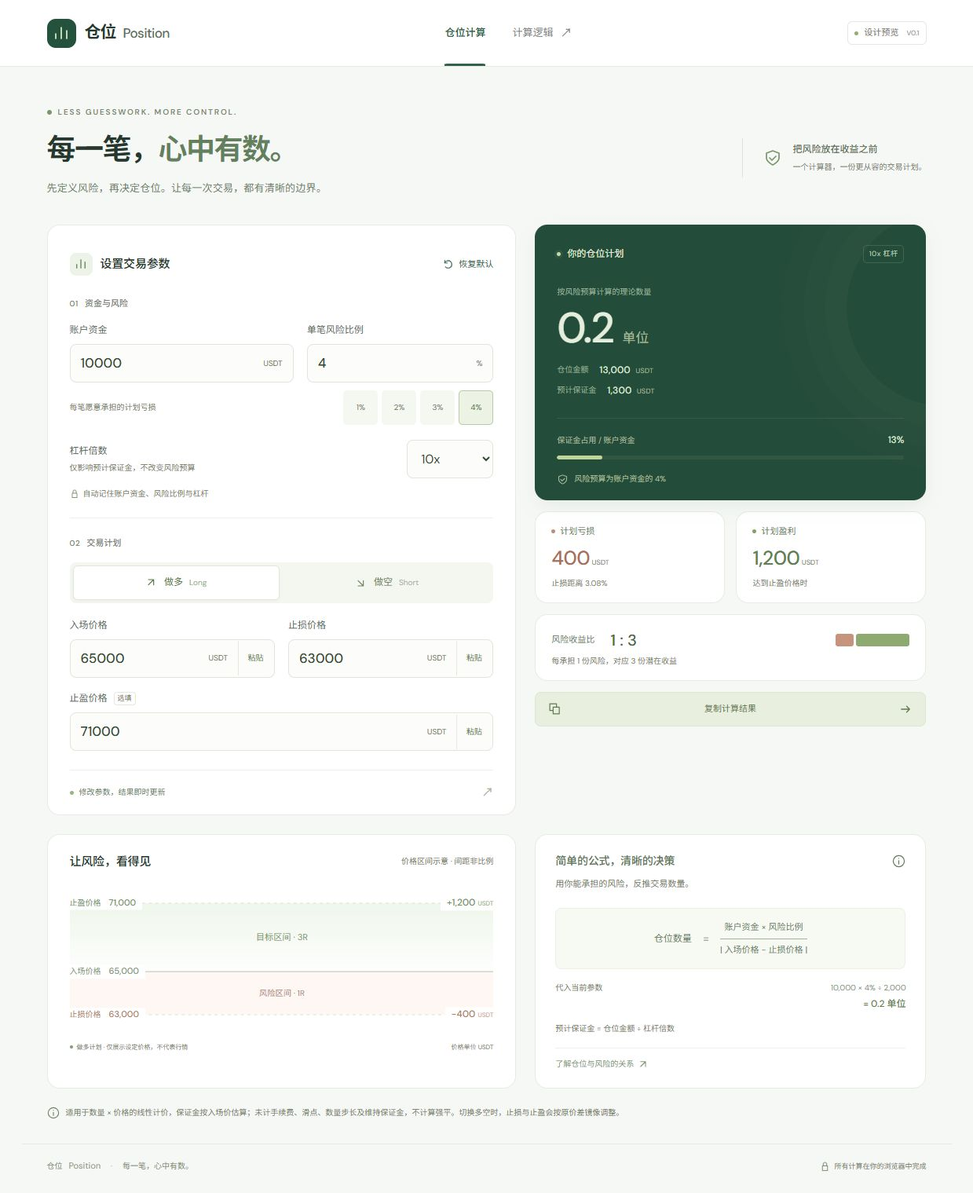
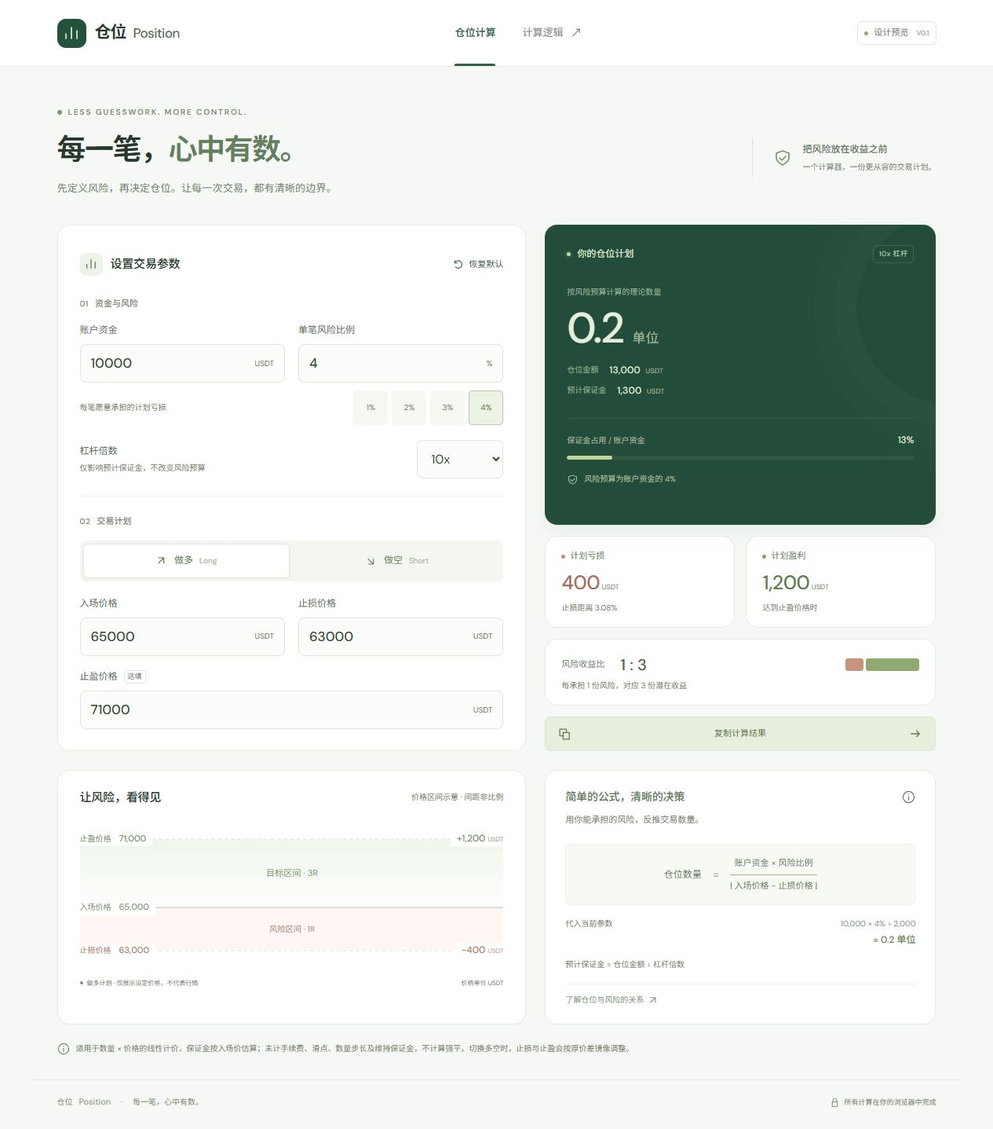
Simplify calculator inputs and align panels

diff --git a/src/styles.css b/src/styles.css
@@ -4,16 +4,16 @@
 *{box-sizing:border-box}html{scroll-behavior:smooth;scroll-padding-top:28px}body{margin:0}button,input,select,a{-webkit-tap-highlight-color:transparent}button,input,select{font:inherit}button,a{touch-action:manipulation}button{cursor:pointer}button{color:inherit}a{color:inherit;text-decoration:none}button:focus-visible,a:focus-visible{outline:3px solid #78a78a;outline-offset:4px}button:disabled{cursor:not-allowed;opacity:.5}svg{flex-shrink:0}button{transition:background .16s,border-color .16s,transform .16s}button:active{transform:translateY(1px)}
 .site-header{background:#fff;border-bottom:1px solid var(--border)}.header-inner{max-width:1184px;margin:auto;height:84px;display:flex;align-items:center;justify-content:space-between;padding:0 32px}.brand{white-space:nowrap;display:flex;align-items:center;gap:11px;font-size:21px;font-weight:700;letter-spacing:-1px}.brand-symbol{width:37px;height:37px;display:grid;place-items:center;background:#24523d;color:#deedc8;border-radius:11px}.brand-english{font-family:'DM Sans',sans-serif;font-weight:500;font-size:17px;letter-spacing:-.6px;margin-left:9px;color:#5c6e60}nav{display:flex;gap:34px;align-items:center;height:100%;font-size:13px;color:#7c877e}nav a{white-space:nowrap;display:flex;align-items:center;gap:9px;height:100%;position:relative}nav a.active{font-weight:550;color:var(--green)}nav a.active:after{content:'';height:3px;background:var(--green);position:absolute;bottom:0;left:0;right:0;border-radius:3px 3px 0 0}nav a:hover{color:var(--green)}nav a span{font-size:15px}.preview-badge{font-size:11px;display:flex;align-items:center;gap:7px;color:#75806f;border:1px solid #e3e9de;border-radius:6px;padding:5px 8px}.preview-badge>span{width:5px;height:5px;background:#93ac72;border-radius:50%}.preview-badge b{font-size:9px;font-weight:500;color:#a0a898;margin-left:3px}
 main{max-width:1184px;margin:auto;padding:0 32px}.hero{display:flex;justify-content:space-between;align-items:center;padding:50px 0 36px}.eyebrow{font-size:10px;letter-spacing:1.9px;color:#798a71;font-weight:600;display:flex;gap:8px;align-items:center}.eyebrow>span{width:6px;height:6px;border-radius:50%;background:#79996c}h1{font-size:37px;letter-spacing:-1.5px;margin:12px 0 11px;line-height:1.5;font-weight:650}h1 span{color:#63805d}.hero p{font-size:13px;color:#6f7d6b;margin:0;letter-spacing:.2px}.hero-note{display:flex;gap:14px;align-items:center;margin:17px 0 0 20px;padding:5px 0 5px 26px;border-left:1px solid #dce4d7;color:#78956b}.hero-note strong{font-size:12px;color:#5c7156;font-weight:500;display:block}.hero-note span{font-size:10px;display:block;color:#76836e;margin-top:5px;white-space:nowrap}
-.workspace{display:grid;grid-template-columns:1.2fr 1fr;gap:24px;align-items:start}.card{background:#fff;border:1px solid var(--border);border-radius:16px}.parameters{padding:27px 28px 0}.section-heading{display:flex;justify-content:space-between;align-items:center;gap:12px}.section-heading h2{font-size:15px;font-weight:550;letter-spacing:-.2px;margin:0}.heading-with-icon{display:flex;align-items:center;gap:10px}.section-icon{display:grid;place-items:center;width:29px;height:29px;border-radius:8px;background:#edf3e9;color:#5b8050}.reset-button{display:flex;align-items:center;gap:6px;background:none;border:0;color:#6d7c68;font-size:11px;padding:10px 0 10px 12px;min-height:44px}.reset-button:hover{color:var(--green)}.form-section{margin-top:20px}.step-label{display:flex;align-items:center;gap:8px;color:#768472;font-size:11px;font-weight:500;margin-bottom:15px}.step-label>span:first-child{font-size:10px;color:#76866b;font-weight:500;letter-spacing:.6px}.fields-grid{display:grid;grid-template-columns:1fr 1fr;gap:17px}.account-fields{grid-template-columns:1.2fr 1fr}.field label{display:flex;align-items:center;gap:8px;font-size:12px;color:#596b5b;margin-bottom:8px}.input-wrap{display:flex;align-items:center;border:1px solid #dfe6da;background:#fcfdfa;border-radius:8px;height:49px;transition:border-color .15s,box-shadow .15s;overflow:hidden}.input-wrap:focus-within{border-color:#7e9e6f;box-shadow:0 0 0 3px #e8efdf}.input-wrap input{font-family:'DM Sans','Noto Sans SC',sans-serif;min-width:0;width:100%;border:0;outline:0;background:transparent;padding:12px 13px;font-size:17px;font-weight:500;color:#344832;font-variant-numeric:tabular-nums;appearance:textfield;-moz-appearance:textfield}.input-wrap input::-webkit-inner-spin-button,.input-wrap input::-webkit-outer-spin-button{-webkit-appearance:none;margin:0}.input-wrap input::placeholder{font-size:13px;color:#b7bfb0;font-weight:400}.input-suffix{font-size:10px;color:#708062;padding-right:13px;white-space:nowrap}.input-wrap.invalid{border-color:#bf8577}.field-error{display:block;font-size:10px;color:#a45b4d;margin-top:5px;line-height:1.5}.optional{font-size:9px;border:1px solid #e4e9de;color:#728064;border-radius:4px;padding:0 4px}.risk-row{display:flex;flex-wrap:wrap;justify-content:space-between;align-items:center;gap:8px;margin-top:10px}.risk-row>span{font-size:10px;color:#738164}.risk-presets{margin-left:auto;display:flex;gap:5px}.risk-presets button{border:1px solid transparent;border-radius:5px;background:#f5f7f1;color:#71805f;min-height:44px;min-width:44px;padding:3px 6px;font-size:10px}.risk-presets button.selected{border-color:#b9cba8;background:#ecf3e4;color:#507344}.risk-presets button:hover{background:#e8f0e0}.trade-section{margin-top:22px;border-top:1px solid #edf0e9;padding-top:23px}.direction-control{display:flex;padding:4px;background:#f4f6f0;border-radius:8px;gap:5px;margin-bottom:19px}.direction-control button{display:flex;gap:8px;align-items:center;justify-content:center;flex:1;min-height:44px;border:1px solid transparent;border-radius:6px;background:transparent;font-size:12px;color:#6f7e62}.direction-control button span{font-size:10px;opacity:.65}.direction-control button.selected{background:#fff;border-color:#e1e7d8;box-shadow:0 2px 4px #2c491408}.direction-control button.long{color:#547643}.direction-control button.short{color:#ac6c58}.price-fields{margin-bottom:17px}.form-footnote{border-top:1px solid #edf0e9;display:flex;align-items:center;gap:7px;color:#6b7d5e;font-size:10px;margin-top:24px;padding:16px 0}.live-dot{height:5px;width:5px;border-radius:50%;background:#99b580;display:inline-block;flex-shrink:0}.footnote-arrow{margin-left:auto;color:#a3b095;font-size:15px}
-.results-column{display:flex;flex-direction:column;gap:14px}.result-card{position:relative;isolation:isolate;overflow:hidden;padding:26px 28px 19px;border-radius:16px;color:#e5eedc;background:#244c3b;box-shadow:0 9px 24px #254b3810}.result-card:after{content:'';position:absolute;width:250px;height:250px;border:1px solid #acc1940d;border-radius:50%;right:-150px;top:-20px;box-shadow:0 0 0 26px #acc19404,0 0 0 53px #acc19404,0 0 0 80px #acc19403;z-index:-1}.result-topline{display:flex;justify-content:space-between;align-items:center;font-size:12px}.result-topline>span:first-child{display:flex;gap:8px;align-items:center}.result-topline .live-dot{background:#c2dba6;box-shadow:0 0 0 3px #c2dba612}.result-leverage{font-size:9px;color:#b8cbb2;border:1px solid #79947055;border-radius:5px;padding:3px 7px;letter-spacing:.5px}.quantity-label{font-size:10px;color:#9db09b;margin:29px 0 2px}.quantity{font-family:'DM Sans',sans-serif;font-size:54px;font-weight:500;letter-spacing:-2px;line-height:1.35;font-variant-numeric:tabular-nums;overflow-wrap:anywhere}.quantity>span{font-size:17px;font-weight:400;letter-spacing:0;color:#a6bb9b;margin-left:11px}.notional{display:flex;align-items:center;gap:14px;font-size:10px;color:#99ad94;margin-top:7px}.notional strong{color:#dce8d3;font-size:12px;font-weight:500;letter-spacing:.2px}.notional strong span{font-size:9px;color:#a5b79d;font-weight:400;margin-left:3px}.result-divider{height:1px;background:#96ac8929;margin-top:25px;margin-bottom:18px}.capital-label{display:flex;justify-content:space-between;align-items:center;font-size:10px;color:#a6b79f}.capital-label strong{color:#dae8ce;font-size:12px;font-weight:500}.capital-bar{height:5px;background:#718c602e;border-radius:4px;overflow:hidden;margin-top:10px}.capital-bar span{display:block;height:100%;border-radius:4px;background:#bfd59a;transition:width .3s}.result-bottom{display:flex;gap:7px;align-items:center;font-size:10px;color:#a8bd9c;margin-top:17px}.metrics-grid{display:grid;grid-template-columns:1fr 1fr;gap:14px}.metric{padding:16px 20px}.metric-label{font-size:11px;color:#6a7c5c;display:flex;align-items:center;gap:6px}.metric-dot{width:5px;height:5px;border-radius:50%;display:inline-block}.metric-dot.loss{background:#bd8d79}.metric-dot.gain{background:#80a264}.metric>strong{font-family:'DM Sans',sans-serif;display:block;font-size:25px;font-weight:500;margin-top:5px;letter-spacing:-.4px;font-variant-numeric:tabular-nums;overflow-wrap:anywhere}.metric:first-child>strong{color:#aa6e5b}.metric:last-child>strong{color:#60804f}.metric strong small{font-size:9px;font-weight:400;color:#738264;letter-spacing:0}.metric-detail{font-size:10px;color:#748368;margin-top:4px;display:block}.ratio-card{padding:16px 20px;display:grid;grid-template-columns:1fr auto;align-items:center;gap:3px 14px}.ratio-card>div:first-child{display:flex;align-items:center;gap:20px}.ratio-card strong{font-family:'DM Sans',sans-serif;font-size:20px;letter-spacing:.1px;font-weight:500;color:#4d6744}.ratio-visual{width:94px;display:flex;gap:3px;align-items:center}.ratio-visual>*{display:block;min-width:2px;flex-basis:0;width:0;height:16px;border-radius:3px;background:#8eaa70}.ratio-visual>span{background:#c6937d;margin-right:0}.ratio-description{grid-column:1/-1;font-size:10px;color:#748266}.copy-button{display:flex;align-items:center;justify-content:center;gap:10px;min-height:44px;background:#e9efdf;border:1px solid #dce6d0;border-radius:8px;color:#5f7951;font-size:11px;padding:8px 16px}.copy-button>svg:last-child{margin-left:auto}.copy-button>svg:first-child{margin-right:auto}.copy-button:hover{background:#e1ead5}.capital-warning{display:flex;align-items:flex-start;gap:8px;background:#f9efde;color:#927342;border:1px solid #e8d6b9;border-radius:8px;padding:12px;font-size:11px}
+.workspace{display:grid;grid-template-columns:1.2fr 1fr;gap:24px;align-items:stretch}.card{background:#fff;border:1px solid var(--border);border-radius:16px}.parameters{padding:27px 28px}.section-heading{display:flex;justify-content:space-between;align-items:center;gap:12px}.section-heading h2{font-size:15px;font-weight:550;letter-spacing:-.2px;margin:0}.heading-with-icon{display:flex;align-items:center;gap:10px}.section-icon{display:grid;place-items:center;width:29px;height:29px;border-radius:8px;background:#edf3e9;color:#5b8050}.reset-button{display:flex;align-items:center;gap:6px;background:none;border:0;color:#6d7c68;font-size:11px;padding:10px 0 10px 12px;min-height:44px}.reset-button:hover{color:var(--green)}.form-section{margin-top:20px}.step-label{display:flex;align-items:center;gap:8px;color:#768472;font-size:11px;font-weight:500;margin-bottom:15px}.step-label>span:first-child{font-size:10px;color:#76866b;font-weight:500;letter-spacing:.6px}.fields-grid{display:grid;grid-template-columns:1fr 1fr;gap:17px}.field label{display:flex;align-items:center;gap:8px;font-size:12px;color:#596b5b;margin-bottom:8px}.input-wrap{display:flex;align-items:center;border:1px solid #dfe6da;background:#fcfdfa;border-radius:8px;height:49px;transition:border-color .15s,box-shadow .15s;overflow:hidden}.input-wrap:focus-within{border-color:#7e9e6f;box-shadow:0 0 0 3px #e8efdf}.input-wrap input{font-family:'DM Sans','Noto Sans SC',sans-serif;min-width:0;width:100%;border:0;outline:0;background:transparent;padding:12px 13px;font-size:17px;font-weight:500;color:#344832;font-variant-numeric:tabular-nums;appearance:textfield;-moz-appearance:textfield}.input-wrap input::-webkit-inner-spin-button,.input-wrap input::-webkit-outer-spin-button{-webkit-appearance:none;margin:0}.input-wrap input::placeholder{font-size:13px;color:#b7bfb0;font-weight:400}.input-suffix{font-size:10px;color:#708062;padding-right:13px;white-space:nowrap}.input-wrap.invalid{border-color:#bf8577}.field-error{display:block;font-size:10px;color:#a45b4d;margin-top:5px;line-height:1.5}.optional{font-size:9px;border:1px solid #e4e9de;color:#728064;border-radius:4px;padding:0 4px}.risk-row{display:flex;flex-wrap:wrap;justify-content:space-between;align-items:center;gap:8px;margin-top:10px}.risk-row>span{font-size:10px;color:#738164}.risk-presets{margin-left:auto;display:flex;gap:5px}.risk-presets button{border:1px solid transparent;border-radius:5px;background:#f5f7f1;color:#71805f;min-height:44px;min-width:44px;padding:3px 6px;font-size:10px}.risk-presets button.selected{border-color:#b9cba8;background:#ecf3e4;color:#507344}.risk-presets button:hover{background:#e8f0e0}.trade-section{margin-top:22px;border-top:1px solid #edf0e9;padding-top:23px}.direction-control{display:flex;padding:4px;background:#f4f6f0;border-radius:8px;gap:5px;margin-bottom:19px}.direction-control button{display:flex;gap:8px;align-items:center;justify-content:center;flex:1;min-height:44px;border:1px solid transparent;border-radius:6px;background:transparent;font-size:12px;color:#6f7e62}.direction-control button span{font-size:10px;opacity:.65}.direction-control button.selected{background:#fff;border-color:#e1e7d8;box-shadow:0 2px 4px #2c491408}.direction-control button.long{color:#547643}.direction-control button.short{color:#ac6c58}.price-fields{margin-bottom:17px}.live-dot{height:5px;width:5px;border-radius:50%;background:#99b580;display:inline-block;flex-shrink:0}
+.results-column{display:flex;flex-direction:column;gap:14px}.result-card{flex-grow:1;position:relative;isolation:isolate;overflow:hidden;padding:26px 28px 19px;border-radius:16px;color:#e5eedc;background:#244c3b;box-shadow:0 9px 24px #254b3810}.result-card:after{content:'';position:absolute;width:250px;height:250px;border:1px solid #acc1940d;border-radius:50%;right:-150px;top:-20px;box-shadow:0 0 0 26px #acc19404,0 0 0 53px #acc19404,0 0 0 80px #acc19403;z-index:-1}.result-topline{display:flex;justify-content:space-between;align-items:center;font-size:12px}.result-topline>span:first-child{display:flex;gap:8px;align-items:center}.result-topline .live-dot{background:#c2dba6;box-shadow:0 0 0 3px #c2dba612}.result-leverage{font-size:9px;color:#b8cbb2;border:1px solid #79947055;border-radius:5px;padding:3px 7px;letter-spacing:.5px}.quantity-label{font-size:10px;color:#9db09b;margin:29px 0 2px}.quantity{font-family:'DM Sans',sans-serif;font-size:54px;font-weight:500;letter-spacing:-2px;line-height:1.35;font-variant-numeric:tabular-nums;overflow-wrap:anywhere}.quantity>span{font-size:17px;font-weight:400;letter-spacing:0;color:#a6bb9b;margin-left:11px}.notional{display:flex;align-items:center;gap:14px;font-size:10px;color:#99ad94;margin-top:7px}.notional strong{color:#dce8d3;font-size:12px;font-weight:500;letter-spacing:.2px}.notional strong span{font-size:9px;color:#a5b79d;font-weight:400;margin-left:3px}.result-divider{height:1px;background:#96ac8929;margin-top:25px;margin-bottom:18px}.capital-label{display:flex;justify-content:space-between;align-items:center;font-size:10px;color:#a6b79f}.capital-label strong{color:#dae8ce;font-size:12px;font-weight:500}.capital-bar{height:5px;background:#718c602e;border-radius:4px;overflow:hidden;margin-top:10px}.capital-bar span{display:block;height:100%;border-radius:4px;background:#bfd59a;transition:width .3s}.result-bottom{display:flex;gap:7px;align-items:center;font-size:10px;color:#a8bd9c;margin-top:17px}.metrics-grid{display:grid;grid-template-columns:1fr 1fr;gap:14px}.metric{padding:16px 20px}.metric-label{font-size:11px;color:#6a7c5c;display:flex;align-items:center;gap:6px}.metric-dot{width:5px;height:5px;border-radius:50%;display:inline-block}.metric-dot.loss{background:#bd8d79}.metric-dot.gain{background:#80a264}.metric>strong{font-family:'DM Sans',sans-serif;display:block;font-size:25px;font-weight:500;margin-top:5px;letter-spacing:-.4px;font-variant-numeric:tabular-nums;overflow-wrap:anywhere}.metric:first-child>strong{color:#aa6e5b}.metric:last-child>strong{color:#60804f}.metric strong small{font-size:9px;font-weight:400;color:#738264;letter-spacing:0}.metric-detail{font-size:10px;color:#748368;margin-top:4px;display:block}.ratio-card{padding:16px 20px;display:grid;grid-template-columns:1fr auto;align-items:center;gap:3px 14px}.ratio-card>div:first-child{display:flex;align-items:center;gap:20px}.ratio-card strong{font-family:'DM Sans',sans-serif;font-size:20px;letter-spacing:.1px;font-weight:500;color:#4d6744}.ratio-visual{width:94px;display:flex;gap:3px;align-items:center}.ratio-visual>*{display:block;min-width:2px;flex-basis:0;width:0;height:16px;border-radius:3px;background:#8eaa70}.ratio-visual>span{background:#c6937d;margin-right:0}.ratio-description{grid-column:1/-1;font-size:10px;color:#748266}.copy-button{display:flex;align-items:center;justify-content:center;gap:10px;min-height:44px;background:#e9efdf;border:1px solid #dce6d0;border-radius:8px;color:#5f7951;font-size:11px;padding:8px 16px}.copy-button>svg:last-child{margin-left:auto}.copy-button>svg:first-child{margin-right:auto}.copy-button:hover{background:#e1ead5}.capital-warning{display:flex;align-items:flex-start;gap:8px;background:#f9efde;color:#927342;border:1px solid #e8d6b9;border-radius:8px;padding:12px;font-size:11px}
 .below-grid{display:grid;grid-template-columns:1.2fr 1fr;gap:24px;margin-top:24px}.plan-card{padding:22px 28px 19px;overflow:hidden}.subtle{font-size:10px;color:#728062}.plan-chart{height:200px;position:relative;margin-top:18px}.plan-drawing{position:absolute;left:0;top:0;width:100%;height:100%}.price-level{position:absolute;left:0;right:0;display:flex;align-items:center;justify-content:space-between;transform:translateY(-50%);font-size:10px;gap:10px}.price-level>span{background:#fff;padding:0 8px 0 0;display:flex;gap:10px;align-items:center}.price-level b{font-family:'DM Sans',sans-serif;font-size:11px;font-weight:500}.price-level>strong{font-family:'DM Sans',sans-serif;background:#fff;padding-left:8px;font-size:12px;font-weight:500}.price-level small{font-size:8px;opacity:.7}.price-level.positive{color:#71935e}.price-level.neutral{color:#899680}.price-level.negative{color:#b27b66}.chart-legend{display:flex;align-items:center;justify-content:space-between;font-size:8px;color:#758269;gap:8px}.chart-legend>span:first-child{display:flex;align-items:center;gap:5px}.legend-dot{width:4px;height:4px;background:#839e72;border-radius:50%}.chart-empty{height:230px;display:flex;flex-direction:column;align-items:center;justify-content:center;color:#9caa91;font-size:12px}.explanation{padding:22px 25px}.explanation>.section-heading{color:#66775b}.explanation h2{font-size:14px}.explanation>p{font-size:11px;color:#728166;margin:10px 0 21px}.formula{display:flex;gap:14px;align-items:center;justify-content:center;padding:15px 8px;color:#6b7d5e;font-size:12px;background:#f7f9f3;border:1px solid #edf0e5;border-radius:8px}.formula>b{font-size:15px;color:#9fae91;font-weight:400}.formula>div{text-align:center;font-size:11px}.formula hr{border:0;border-top:1px solid #a4b396;margin:5px 0}.formula-example{margin-top:16px;font-size:10px;color:#748267;display:flex;justify-content:space-between;gap:12px}.formula-example>span{font-family:'DM Sans','Noto Sans SC',sans-serif;text-align:right;color:#86967a;font-size:10px}.formula-example b{display:block;color:#647f52;font-size:12px;font-weight:500;margin-top:3px}.learn-link{display:flex;align-items:center;gap:5px;color:#859776;font-size:10px;border-top:1px solid #edf0e7;margin-top:16px;padding-top:12px}.learn-link:hover{color:var(--green)}.calculation-note{display:flex;gap:8px;align-items:flex-start;margin:22px 0 30px;color:#728166}.calculation-note svg{margin-top:1px}.calculation-note p{margin:0;font-size:10px;line-height:1.8}footer{max-width:1184px;padding:19px 32px 25px;margin:auto;border-top:1px solid #e5eade;display:flex;justify-content:space-between;gap:20px;align-items:center;color:#748267;font-size:9px}.footer-brand{display:flex;align-items:center;gap:8px;color:#7c8d71;font-size:10px}.footer-brand>span{font-size:11px;color:#93a087}.footer-brand i{font-style:normal;margin:0 5px;color:#b2bca9}footer>span:last-child{display:flex;align-items:center;gap:6px}
 @media(min-width:1500px){.hero{padding-top:60px;padding-bottom:44px}}
-@media(max-width:1000px){.hero-note{display:none}.workspace,.below-grid{gap:18px;grid-template-columns:1.15fr 1fr}.parameters{padding:23px 22px 0}.result-card{padding:25px 23px 20px}.plan-card{padding:22px}.metric{padding:16px}.hero{padding-top:36px}.quantity{font-size:48px}.ratio-visual>*{width:12px;height:14px}.ratio-card{padding:16px}.ratio-card>div:first-child{gap:12px}}
-@media(max-width:760px){.header-inner{height:70px;padding:0 22px}nav{gap:20px}.preview-badge{display:none}main{padding:0 22px}.hero{padding:35px 0 27px}h1{font-size:32px}.hero p{font-size:11px}.eyebrow{font-size:8px;letter-spacing:1.5px}.workspace,.below-grid{grid-template-columns:1fr}.parameters{padding:22px 23px 0}.result-card{padding:24px 25px}.quantity{font-size:55px}.quantity-label{margin-top:24px}.results-column{gap:12px}.below-grid{margin-top:18px}.metrics-grid{gap:12px}.metric{padding:18px 22px}.ratio-card{padding:18px 22px}.ratio-visual>*{width:19px;height:17px}.copy-button{min-height:48px}.form-footnote{padding:17px 0}.explanation{padding:22px 25px}.explanation>p{margin-bottom:16px}.formula{padding:20px 10px}.calculation-note{margin:20px 0 24px}footer{margin:0 22px;padding:18px 0 24px;flex-wrap:wrap;gap:12px}.risk-presets button{min-height:44px;min-width:45px}.direction-control button{min-height:44px}}
-@media(max-width:390px){.header-inner,main{padding-left:16px;padding-right:16px}.brand-english{font-size:15px}nav{gap:16px;font-size:11px}h1{font-size:29px}.hero p{font-size:10px}.parameters{padding:21px 18px 0}.fields-grid{gap:12px}.input-wrap input{font-size:16px;padding-left:11px}.input-suffix{font-size:9px;padding-right:9px}.risk-row>span{font-size:9px}.risk-presets{gap:3px}.risk-presets button{min-width:44px}.ratio-description{font-size:9px}.chart-legend{font-size:7px}.plan-card{padding:20px}.subtle{font-size:9px}.formula{gap:10px}}
+@media(max-width:1000px){.hero-note{display:none}.workspace,.below-grid{gap:18px;grid-template-columns:1.15fr 1fr}.parameters{padding:23px 22px}.result-card{padding:25px 23px 20px}.plan-card{padding:22px}.metric{padding:16px}.hero{padding-top:36px}.quantity{font-size:48px}.ratio-visual>*{width:12px;height:14px}.ratio-card{padding:16px}.ratio-card>div:first-child{gap:12px}}
+@media(max-width:760px){.header-inner{height:70px;padding:0 22px}nav{gap:20px}.preview-badge{display:none}main{padding:0 22px}.hero{padding:35px 0 27px}h1{font-size:32px}.hero p{font-size:11px}.eyebrow{font-size:8px;letter-spacing:1.5px}.workspace,.below-grid{grid-template-columns:1fr}.parameters{padding:22px 23px}.result-card{padding:24px 25px}.quantity{font-size:55px}.quantity-label{margin-top:24px}.results-column{gap:12px}.below-grid{margin-top:18px}.metrics-grid{gap:12px}.metric{padding:18px 22px}.ratio-card{padding:18px 22px}.ratio-visual>*{width:19px;height:17px}.copy-button{min-height:48px}.explanation{padding:22px 25px}.explanation>p{margin-bottom:16px}.formula{padding:20px 10px}.calculation-note{margin:20px 0 24px}footer{margin:0 22px;padding:18px 0 24px;flex-wrap:wrap;gap:12px}.risk-presets button{min-height:44px;min-width:45px}.direction-control button{min-height:44px}}
+@media(max-width:390px){.header-inner,main{padding-left:16px;padding-right:16px}.brand-english{font-size:15px}nav{gap:16px;font-size:11px}h1{font-size:29px}.hero p{font-size:10px}.parameters{padding:21px 18px}.fields-grid{gap:12px}.input-wrap input{font-size:16px;padding-left:11px}.input-suffix{font-size:9px;padding-right:9px}.risk-row>span{font-size:9px}.risk-presets{gap:3px}.risk-presets button{min-width:44px}.ratio-description{font-size:9px}.chart-legend{font-size:7px}.plan-card{padding:20px}.subtle{font-size:9px}.formula{gap:10px}}
 @media(prefers-reduced-motion:reduce){html{scroll-behavior:auto}*,*:before,*:after{transition:none!important}}
 
 @media(max-width:360px){.brand-english{display:none}}
-.leverage-row{display:flex;align-items:center;justify-content:space-between;gap:16px;margin-top:19px}.leverage-row label{display:block;color:#596b5b;font-size:12px}.leverage-row>div>span{display:block;font-size:10px;color:#738164;margin-top:4px}.leverage-row .input-wrap{width:110px;flex-shrink:0}.leverage-row select{width:100%;height:100%;padding:0 13px;border:0;background:transparent;color:#344832;font-size:16px;cursor:pointer;outline:0}.storage-note{display:flex;align-items:center;gap:5px;font-size:10px;color:#738164;margin:12px 0 0}.paste-button{align-self:center;flex-shrink:0;min-width:44px;min-height:44px;padding:0 7px;margin-right:2px;border:0;border-left:1px solid #e3e9dc;border-radius:0 6px 6px 0;color:#5d7b4f;background:transparent;font-size:10px}.paste-button:hover{background:#edf3e5}.explanation>.margin-formula{font-size:10px;margin:14px 0 0;color:#738164}
-@media(max-width:1000px) and (min-width:761px){.price-fields{grid-template-columns:1fr}}
-@media(max-width:520px){.price-fields{grid-template-columns:1fr}.risk-row{gap:10px}.risk-row>span{flex-basis:100%}.risk-presets{width:100%;margin-left:0}.risk-presets button{flex:1}.leverage-row>div>span{max-width:165px}}
+.leverage-row{display:flex;align-items:center;justify-content:space-between;gap:16px;margin-top:19px}.leverage-row label{display:block;color:#596b5b;font-size:12px}.leverage-row>div>span{display:block;font-size:10px;color:#738164;margin-top:4px}.leverage-row .input-wrap{width:110px;flex-shrink:0}.leverage-row select{width:100%;height:100%;padding:0 13px;border:0;background:transparent;color:#344832;font-size:16px;cursor:pointer;outline:0}.storage-error{display:flex;align-items:flex-start;gap:5px;font-size:10px;color:#a45b4d;margin:12px 0 0}.explanation>.margin-formula{font-size:10px;margin:14px 0 0;color:#738164}
+
+@media(max-width:520px){.risk-row{gap:10px}.risk-row>span{flex-basis:100%}.risk-presets{width:100%;margin-left:0}.risk-presets button{flex:1}.leverage-row>div>span{max-width:165px}}

diff --git a/src/App.jsx b/src/App.jsx
@@ -34,13 +34,12 @@ function Icon({ name, size = 20, ...props }) {
   return <svg width={size} height={size} viewBox="0 0 24 24" fill="none" stroke="currentColor" strokeWidth="1.7" strokeLinecap="round" strokeLinejoin="round" aria-hidden="true" {...props}><path d={paths[name]} /></svg>;
 }
 
-function Field({ id, label, suffix, value, onChange, error, optional, onPastePrice, onQuickPaste }) {
+function Field({ id, label, suffix, value, onChange, error, optional, onPastePrice }) {
   return <div className="field">
     <label htmlFor={id}>{label}{optional && <span className="optional">选填</span>}</label>
     <div className={`input-wrap ${error ? 'invalid' : ''}`}>
       <input id={id} name={id} type="number" min="0" step="any" inputMode="decimal" value={value} placeholder={optional ? '输入目标价格' : '0'} onChange={event => onChange(id, event.target.value)} onPaste={onPastePrice ? event => { event.preventDefault(); onPastePrice(id, event.clipboardData.getData('text')); } : undefined} aria-invalid={Boolean(error)} aria-describedby={error ? `${id}-error` : undefined} />
       <span className="input-suffix">{suffix}</span>
-      {onQuickPaste && <button type="button" className="paste-button" aria-label={`粘贴${label}`} title={`从剪贴板粘贴${label}`} onClick={() => onQuickPaste(id)}>粘贴</button>}
     </div>
     {error && <span className="field-error" id={`${id}-error`}>{error}</span>}
   </div>;
@@ -100,11 +99,6 @@ export default function App() {
     update(id, price);
   }
 
-  async function pasteFromClipboard(id) {
-    try { pastePrice(id, await navigator.clipboard.readText()); }
-    catch { setPasteErrors(current => ({ ...current, [id]: '无法读取剪贴板，请在输入框中使用系统粘贴。' })); }
-  }
-
   function changeDirection(direction) {
     if (direction === values.direction) return;
     const entry = Number(values.entry);
@@ -146,22 +140,21 @@ export default function App() {
           <div className="section-heading"><div className="heading-with-icon"><span className="section-icon"><Icon name="bars" size={18} /></span><h2 id="parameters-title">设置交易参数</h2></div><button className="reset-button" onClick={() => { setValues(example); setCopyState(''); setPasteErrors({}); }}><Icon name="reset" size={14} />恢复默认</button></div>
           <div className="form-section">
             <div className="step-label"><span>01</span> 资金与风险</div>
-            <div className="fields-grid account-fields">
+            <div className="fields-grid">
               <Field id="balance" label="账户资金" suffix="USDT" value={values.balance} onChange={update} error={errors.balance} />
               <Field id="risk" label="单笔风险比例" suffix="%" value={values.risk} onChange={update} error={errors.risk} />
             </div>
             <div className="risk-row"><span>每笔愿意承担的计划亏损</span><div className="risk-presets" role="group" aria-label="风险比例快捷选择">{['1', '2', '3', '4'].map(value => <button key={value} aria-pressed={values.risk === value} className={values.risk === value ? 'selected' : ''} onClick={() => update('risk', value)}>{value}%</button>)}</div></div>
             <div className="leverage-row"><div><label htmlFor="leverage">杠杆倍数</label><span>仅影响预计保证金，不改变风险预算</span></div><div className="input-wrap"><select id="leverage" value={values.leverage} onChange={event => update('leverage', event.target.value)}>{leverageOptions.map(value => <option key={value} value={value}>{value}x</option>)}</select></div></div>
             {errors.leverage && <span className="field-error">{errors.leverage}</span>}
-            <p className={`storage-note ${storageFailed ? 'field-error' : ''}`} role="status"><Icon name="lock" size={12} />{storageFailed ? '本地存储不可用，本次设置无法保留' : '自动记住账户资金、风险比例与杠杆'}</p>
+            {storageFailed && <p className="storage-error" role="status"><Icon name="info" size={12} />本地存储不可用，本次设置无法保留</p>}
           </div>
           <div className="form-section trade-section">
             <div className="step-label"><span>02</span> 交易计划</div>
             <div className="direction-control" role="group" aria-label="交易方向"><button className={values.direction === 'long' ? 'selected long' : ''} aria-pressed={values.direction === 'long'} onClick={() => changeDirection('long')}><Icon name="up" size={16} />做多 <span>Long</span></button><button className={values.direction === 'short' ? 'selected short' : ''} aria-pressed={values.direction === 'short'} onClick={() => changeDirection('short')}><Icon name="down" size={16} />做空 <span>Short</span></button></div>
-            <div className="fields-grid price-fields"><Field id="entry" label="入场价格" suffix="USDT" value={values.entry} onChange={update} onPastePrice={pastePrice} onQuickPaste={pasteFromClipboard} error={errors.entry || pasteErrors.entry} /><Field id="stop" label="止损价格" suffix="USDT" value={values.stop} onChange={update} onPastePrice={pastePrice} onQuickPaste={pasteFromClipboard} error={errors.stop || pasteErrors.stop} /></div>
-            <Field id="target" label="止盈价格" optional suffix="USDT" value={values.target} onChange={update} onPastePrice={pastePrice} onQuickPaste={pasteFromClipboard} error={errors.target || pasteErrors.target} />
+            <div className="fields-grid price-fields"><Field id="entry" label="入场价格" suffix="USDT" value={values.entry} onChange={update} onPastePrice={pastePrice} error={errors.entry || pasteErrors.entry} /><Field id="stop" label="止损价格" suffix="USDT" value={values.stop} onChange={update} onPastePrice={pastePrice} error={errors.stop || pasteErrors.stop} /></div>
+            <Field id="target" label="止盈价格" optional suffix="USDT" value={values.target} onChange={update} onPastePrice={pastePrice} error={errors.target || pasteErrors.target} />
           </div>
-          <div className="form-footnote"><span className="live-dot" />修改参数，结果即时更新 <span className="footnote-arrow">↗</span></div>
         </section>
 
         <section className="results-column" aria-label="计算结果">

diff --git a/README.md b/README.md
@@ -13,7 +13,7 @@ npm run dev
 
 风险快捷值固定为 1%、2%、3%、4%，默认 4%；杠杆默认 10x。账户资金、风险比例和杠杆的有效值自动写入当前站点的 localStorage（键 `position-size:preferences`），刷新后恢复；价格与方向不保存。恢复默认会重置这些设置。存储被禁用时仍可计算，并显示无法保存的提示。
 
-入场、止损、止盈价格均提供快捷粘贴按钮，也支持在输入框内使用系统粘贴。`65,000.25`、`1,234,567.89` 等合法千分位会自动识别；格式错误时保留原值并显示错误。若浏览器不允许读取剪贴板，使用系统粘贴即可。
+入场、止损、止盈价格支持直接在输入框内使用 Ctrl+V 或系统粘贴。`65,000.25`、`1,234,567.89` 等合法千分位会自动识别；格式错误时保留原值并显示错误。
 
 仓位数量 = 账户资金 × 风险比例 ÷ |入场价 − 止损价|；预计保证金 = 仓位金额 ÷ 杠杆。杠杆只影响保证金占用，不改变按风险反推的数量及计划盈亏。保证金按入场价估算，未计手续费、滑点、交易数量步长和维持保证金，不计算强平。预计保证金超出账户资金时显示提示，不自动截断。价格区间图的间距不按数值比例，仅展示交易参数，并非市场数据或预测。
 
@@ -27,4 +27,4 @@ GitHub 仓库：[ggzui/position-size](https://github.com/ggzui/position-size)；
 
 界面字体通过 Google Fonts 加载 DM Sans / Noto Sans SC；不可用时使用本地无衬线字体。
 
-参考：[React useState](https://react.dev/reference/react/useState)、[Vite 静态部署与 GitHub Pages](https://vite.dev/guide/static-deploy.html#github-pages)、[CME 仓位与风险](https://www.cmegroup.com/education/courses/trade-and-risk-management/proper-position-size)、[初始保证金公式](https://www.bybit.com/en/help-center/article/Initial-Margin-USDT-Contract)、[Clipboard readText](https://developer.mozilla.org/en-US/docs/Web/API/Clipboard/readText)、[localStorage](https://developer.mozilla.org/en-US/docs/Web/API/Window/localStorage)。
+参考：[React useState](https://react.dev/reference/react/useState)、[Vite 静态部署与 GitHub Pages](https://vite.dev/guide/static-deploy.html#github-pages)、[CME 仓位与风险](https://www.cmegroup.com/education/courses/trade-and-risk-management/proper-position-size)、[初始保证金公式](https://www.bybit.com/en/help-center/article/Initial-Margin-USDT-Contract)、[localStorage](https://developer.mozilla.org/en-US/docs/Web/API/Window/localStorage)。
